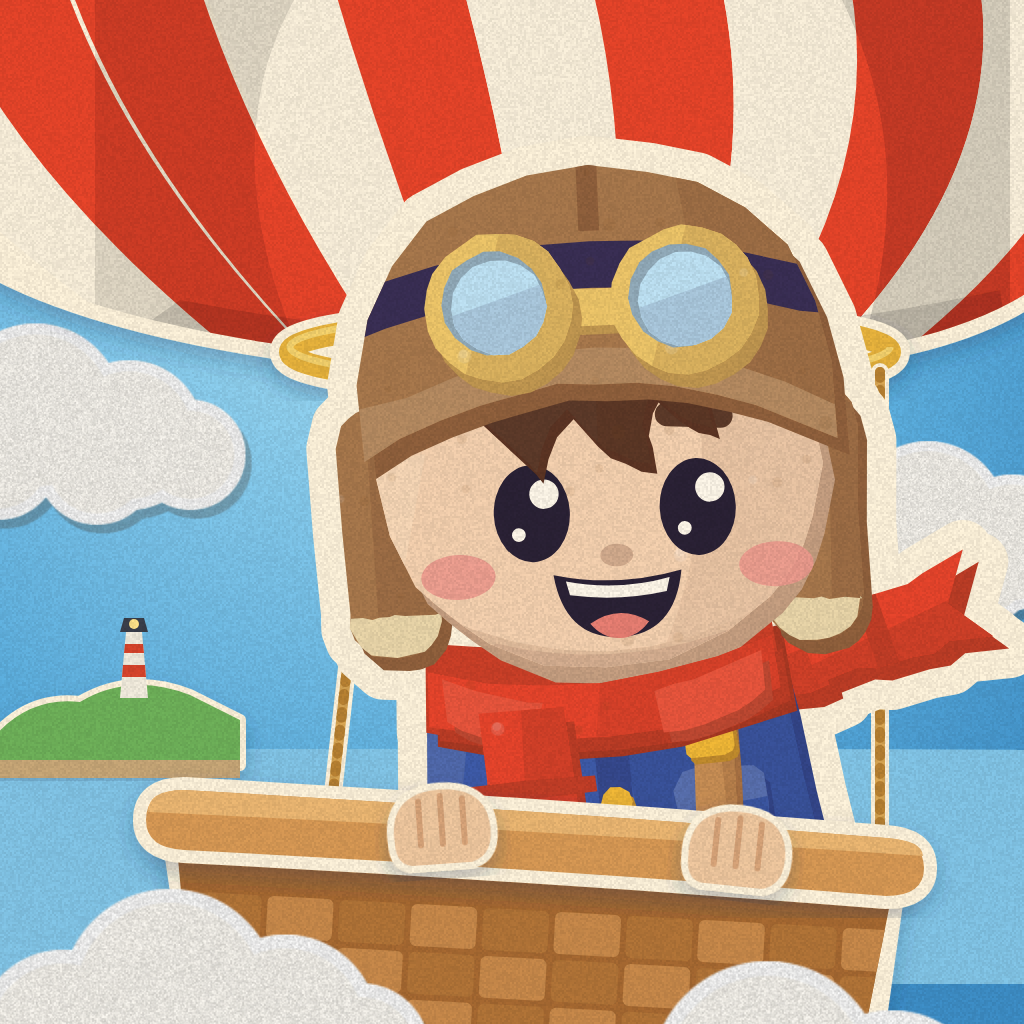
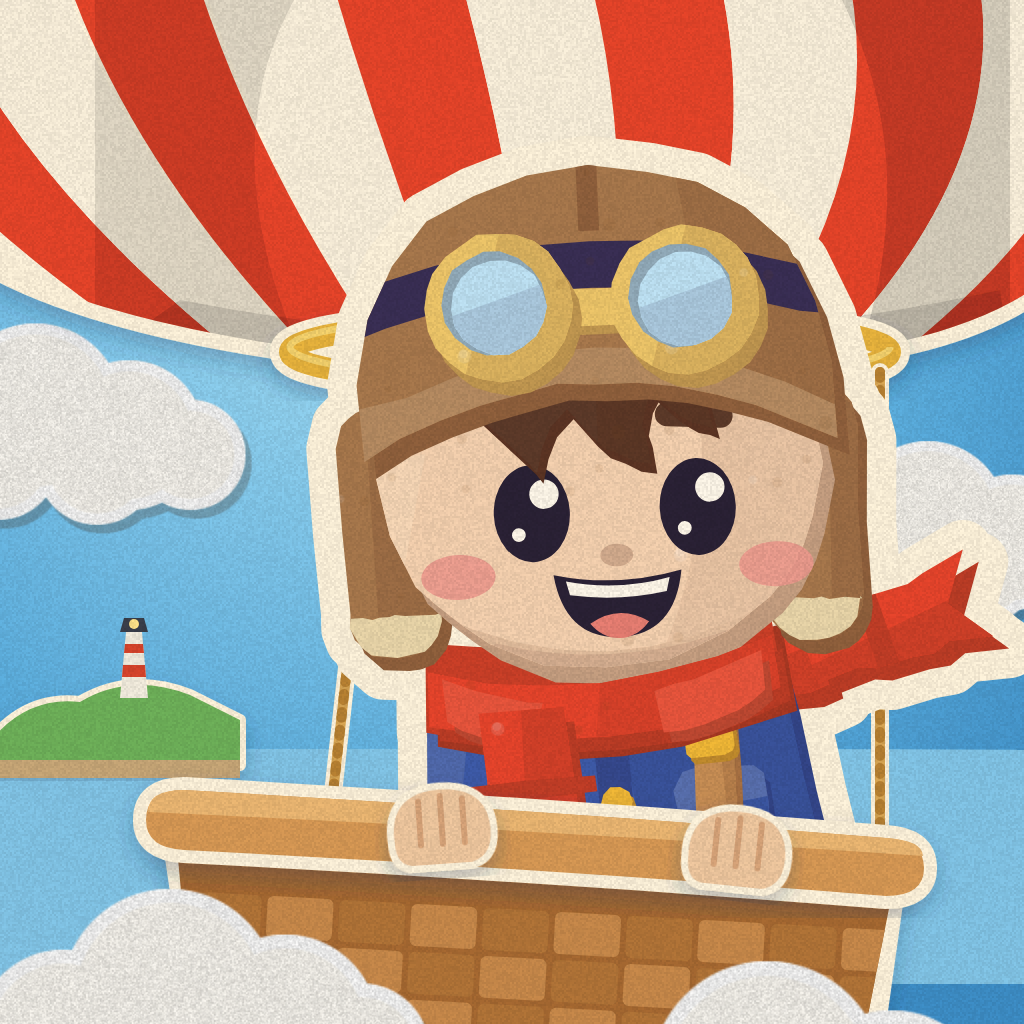
Ícono iOS: el gajo del extremo izquierdo alterna rojo/crema (sin la línea divisoria entre dos rojos)
Claude-Session: https://claude.ai/code/session_017FkcQpDzkf2gnNUK4w8AxS

Changed region(s): [[0.0, 0.0, 0.2812, 0.3438]]

diff --git a/scripts/iconos/portada.html b/scripts/iconos/portada.html
@@ -30,7 +30,7 @@ const island=`<g transform="translate(${L.ix??-820} ${L.iy??-40})">
  <path d="M940 672 L968 672 L964 658 L944 658Z" fill="#3A3F4B"/><circle cx="954" cy="664" r="5" fill="#FFE48A"/>
 </g>`;
 // globo (sobre, recortado arriba) con gajos rojos y crema, aro dorado
-const gores=[[-170,'#FBF1DC'],[-40,'#E8452C'],[95,'#E8452C'],[230,'#FBF1DC'],[360,'#E8452C'],[490,'#FBF1DC'],[620,'#E8452C'],[750,'#FBF1DC'],[880,'#E8452C'],[1010,'#FBF1DC'],[1140,'#E8452C']];
+const gores=[[-170,'#E8452C'],[-40,'#FBF1DC'],[95,'#E8452C'],[230,'#FBF1DC'],[360,'#E8452C'],[490,'#FBF1DC'],[620,'#E8452C'],[750,'#FBF1DC'],[880,'#E8452C'],[1010,'#FBF1DC'],[1140,'#E8452C']];
 const env=`<g ${sh}>
  <path d="${ENVD}" fill="${CR}" stroke="${CR}" stroke-width="30" stroke-linejoin="round"/>
  <g clip-path="url(#env)">${gores.map(([x,f],i)=>`<path d="M${x-40} -60 Q${x+20} 150 ${x+(590-x)*.45} 360 L${x+130+(590-x-130)*.45} 360 Q${x+150} 150 ${x+90} -60Z" fill="${f}"/>`).join('')}
